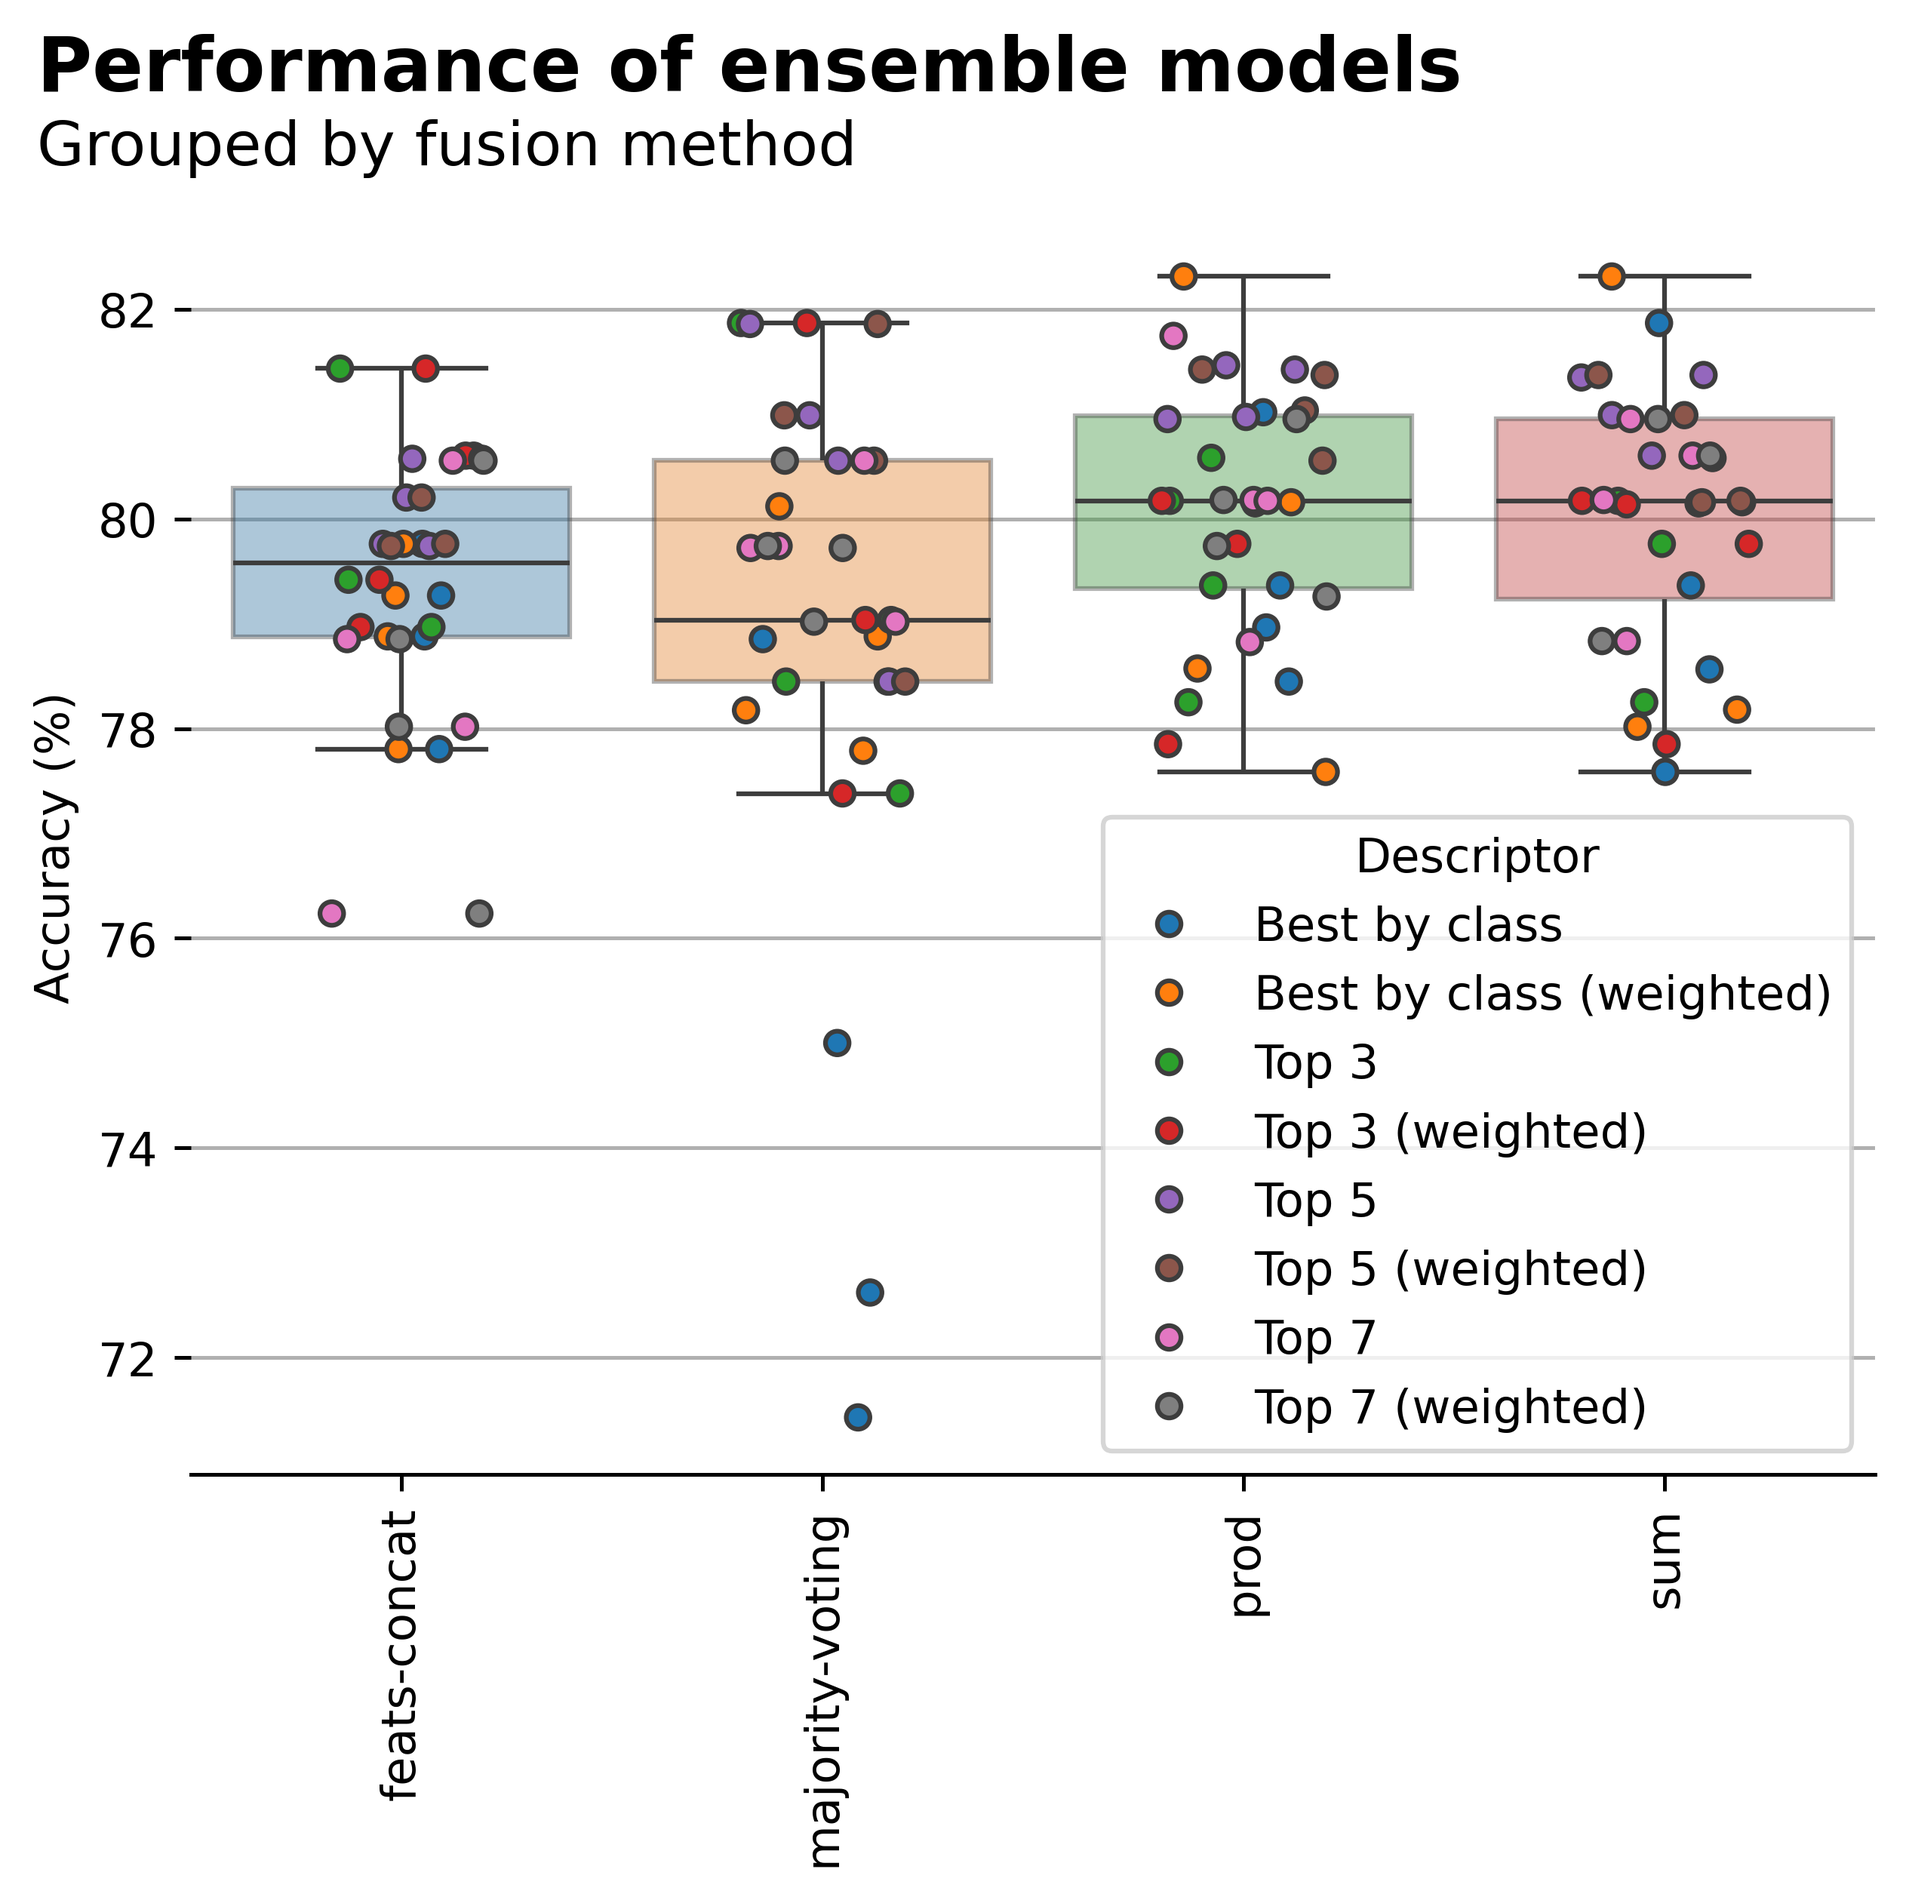
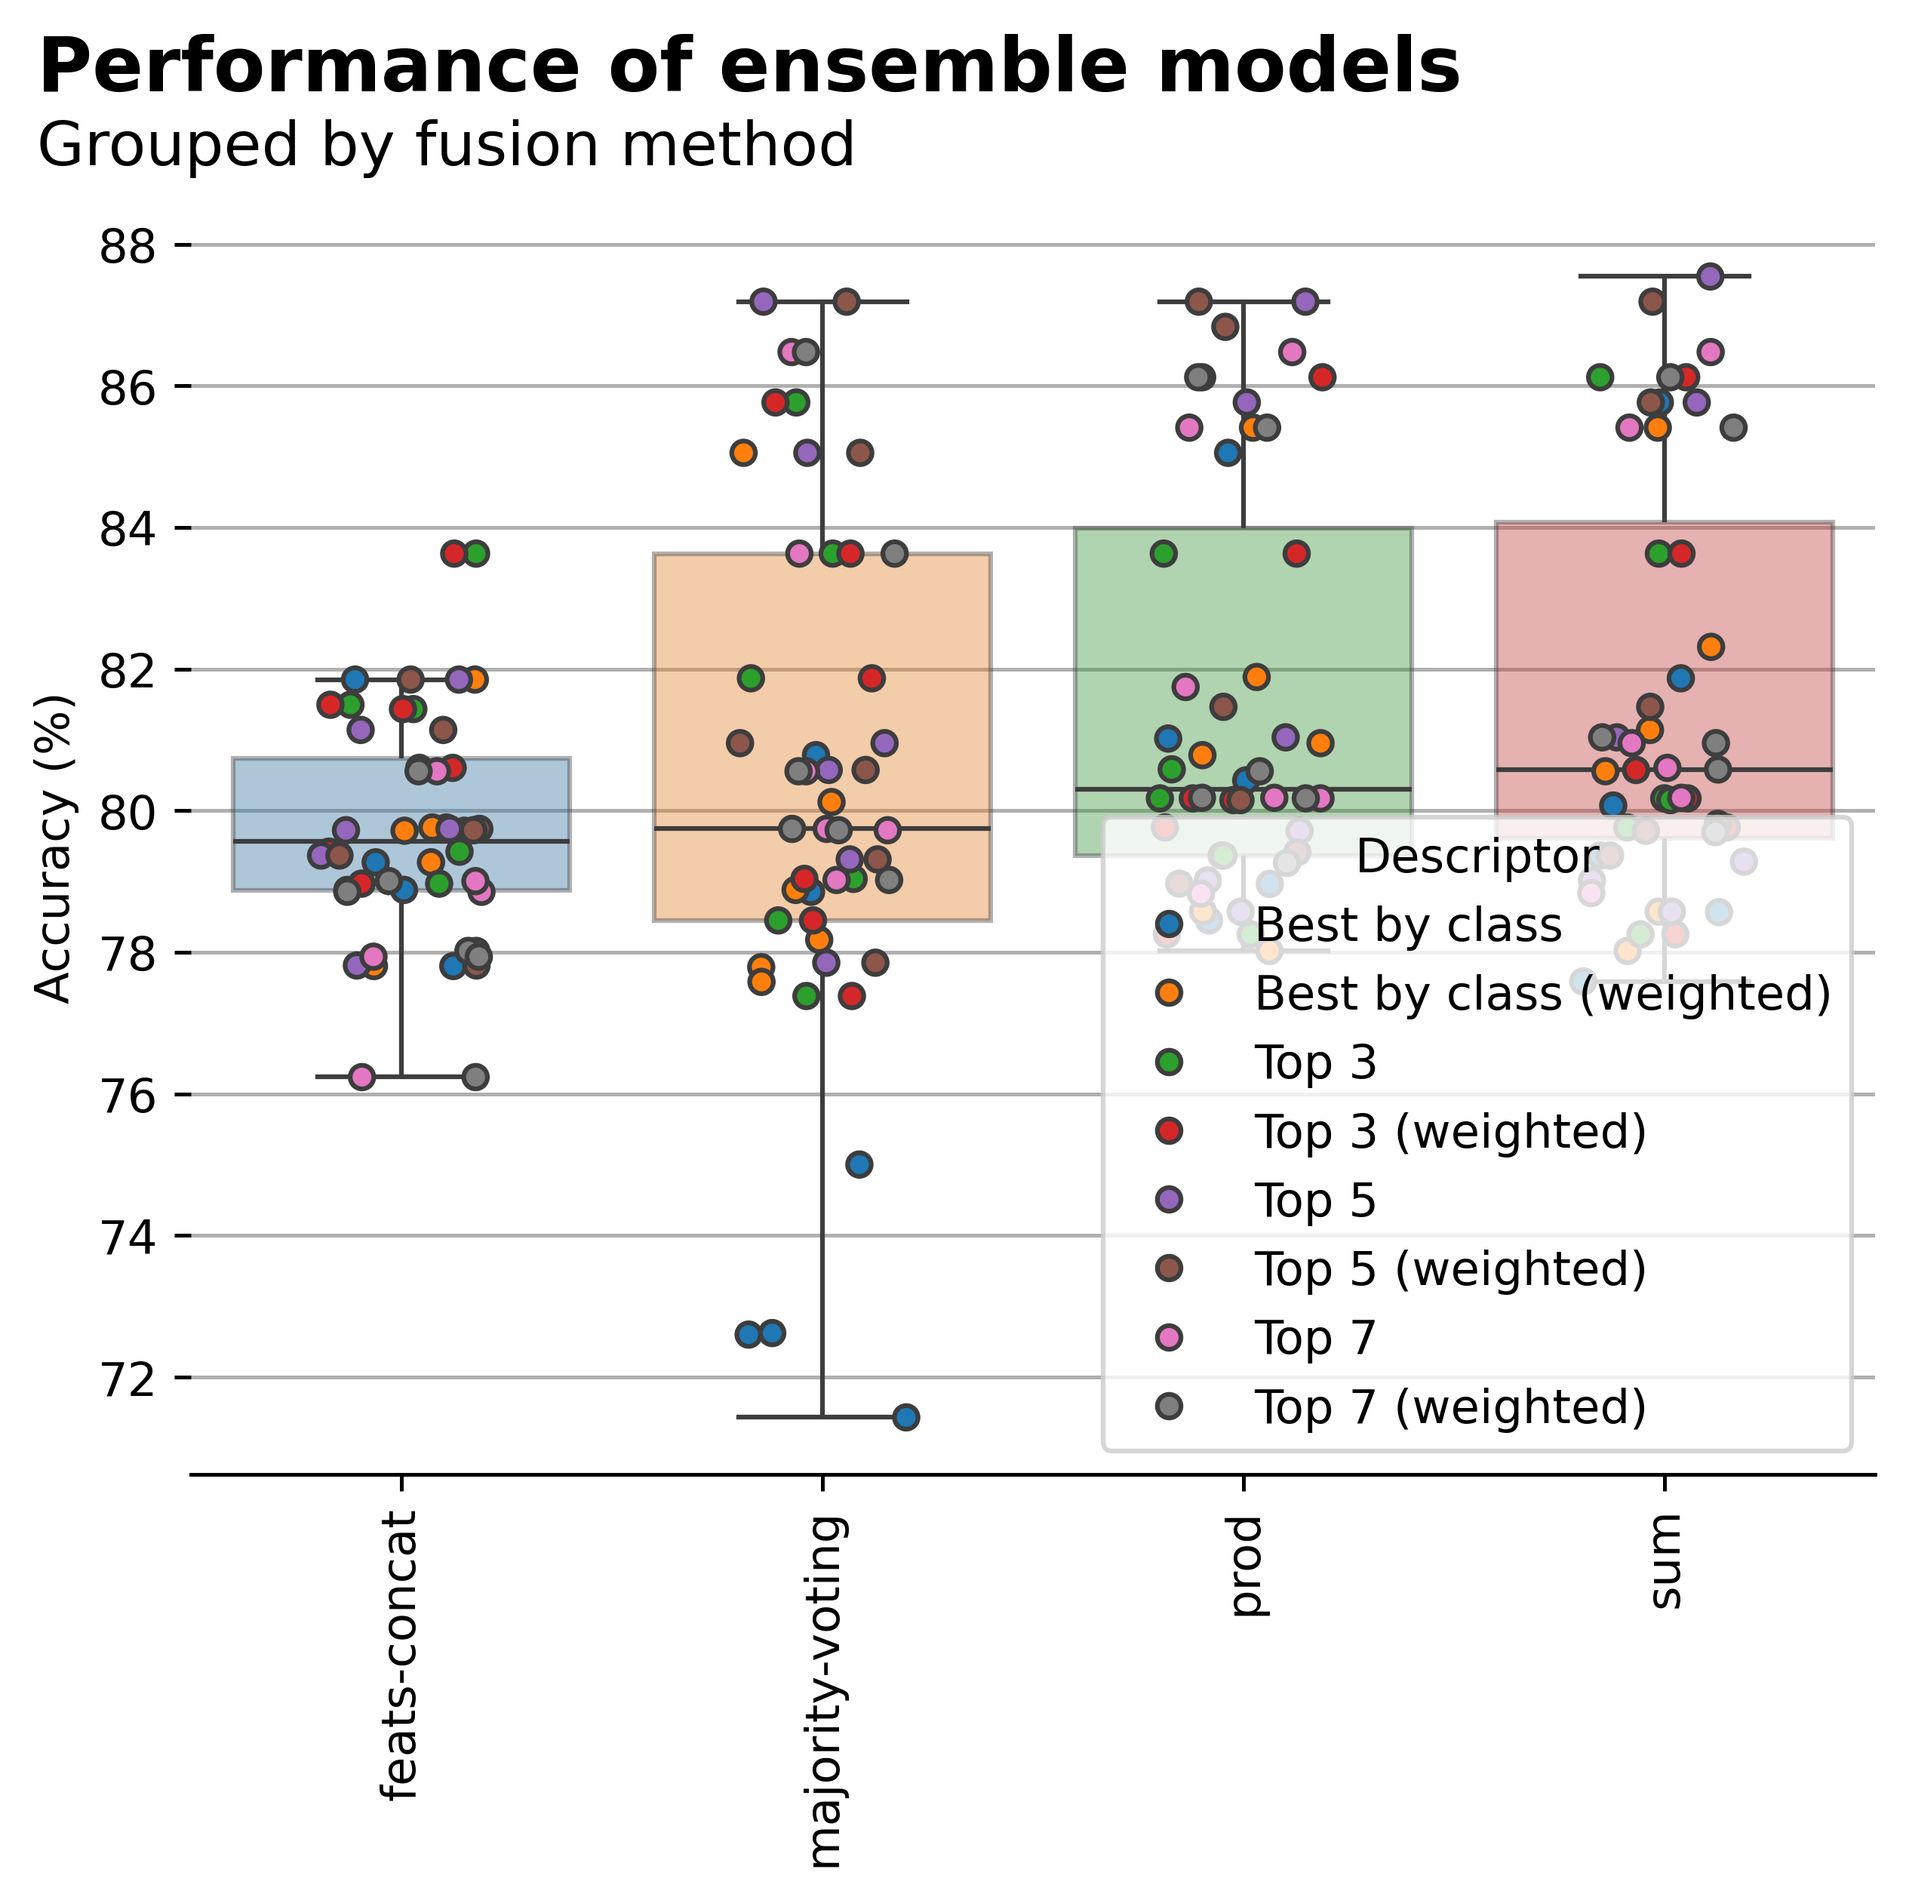
Updated charts and tables (BUS-UCLM)

diff --git a/output/LaTeX/single-vs-combined.tex b/output/LaTeX/single-vs-combined.tex
@@ -4,34 +4,50 @@ Descriptor & Fusion method & Train &Test & Acc. & Sens. &Spec.\\
 \midrule
 DenseNet121 & & BUID & BUID & 79.8 [74.08--84.43] & 75.2 & 86.5\\ 
 \midrule
-Best by class (weighted) & prod & BUID & BUID & 82.3 [76.41--86.35] & 84.6 & 79.7\\ 
 Best by class (weighted) & sum & BUID & BUID & 82.3 [76.41--86.35] & 84.6 & 79.7\\ 
 Best by class & sum & BUID & BUID & 81.9 [75.94--85.96] & 84.5 & 78.8\\ 
 Top 3 & majority-voting & BUID & BUID & 81.9 [75.94--85.96] & 80.5 & 83.4\\ 
+Top 3 (weighted) & majority-voting & BUID & BUID & 81.9 [75.94--85.96] & 80.5 & 83.4\\ 
+\midrule
+\midrule
+Swin_V2_s & & BUID & BUS-UCLM & 84.0 [78.29--87.86] & 78.7 & 86.6\\ 
+\midrule
+Top 5 & sum & BUID & BUS-UCLM & 87.5 [83.14--90.94] & 86.2 & 88.2\\ 
+Top 5 (weighted) & prod & BUID & BUS-UCLM & 87.2 [82.74--90.63] & 85.1 & 88.2\\ 
+Top 5 (weighted) & sum & BUID & BUS-UCLM & 87.2 [82.74--90.63] & 86.2 & 87.7\\ 
+Top 7 & prod & BUID & BUS-UCLM & 86.5 [81.95--90.02] & 74.5 & 92.5\\ 
 \midrule
 \midrule
 DenseNet121 & & BUID & BrEaST & 77.4 [71.32--82.11] & 58.2 & 89.6\\ 
 \midrule
 Top 7 & prod & BUID & BrEaST & 81.7 [76.49--86.05] & 76.5 & 85.1\\ 
-Top 5 & sum & BUID & BrEaST & 81.3 [76.06--85.70] & 79.6 & 82.5\\ 
-Top 7 (weighted) & prod & BUID & BrEaST & 81.0 [75.63--85.34] & 75.5 & 84.4\\ 
-Top 7 (weighted) & sum & BUID & BrEaST & 81.0 [75.63--85.34] & 74.5 & 85.1\\ 
+Best by class (weighted) & prod & BUID & BrEaST & 81.0 [75.63--85.34] & 70.4 & 87.7\\ 
+Top 5 & majority-voting & BUID & BrEaST & 81.0 [75.63--85.34] & 70.4 & 87.7\\ 
+Top 5 (weighted) & majority-voting & BUID & BrEaST & 81.0 [75.63--85.34] & 70.4 & 87.7\\ 
 \midrule
 \midrule
 ConvNeXt_base & & BrEaST & BUID & 78.9 [73.08--83.21] & 69.1 & 89.9\\ 
 \midrule
-Top 5 & prod & BrEaST & BUID & 81.5 [75.94--85.96] & 77.2 & 86.2\\ 
-Top 5 (weighted) & prod & BrEaST & BUID & 81.0 [75.48--85.58] & 75.6 & 87.2\\ 
-Top 3 & feats-concat & BrEaST & BUID & 80.6 [75.01--85.20] & 72.4 & 89.9\\ 
-Top 3 (weighted) & feats-concat & BrEaST & BUID & 80.6 [75.01--85.20] & 72.4 & 89.9\\ 
+Top 5 (weighted) & prod & BrEaST & BUID & 81.5 [75.94--85.96] & 71.5 & 92.7\\ 
+Top 5 (weighted) & sum & BrEaST & BUID & 81.5 [75.94--85.96] & 71.5 & 92.7\\ 
+Top 5 & prod & BrEaST & BUID & 81.0 [75.48--85.58] & 70.7 & 92.7\\ 
+Top 5 & sum & BrEaST & BUID & 81.0 [75.48--85.58] & 70.7 & 92.7\\ 
+\midrule
+\midrule
+DenseNet121 & & BrEaST & BUS-UCLM & 83.6 [78.29--87.86] & 67.0 & 92.0\\ 
+\midrule
+Top 5 & majority-voting & BrEaST & BUS-UCLM & 87.2 [82.74--90.63] & 74.5 & 93.6\\ 
+Top 5 (weighted) & majority-voting & BrEaST & BUS-UCLM & 87.2 [82.74--90.63] & 74.5 & 93.6\\ 
+Top 7 & majority-voting & BrEaST & BUS-UCLM & 86.5 [81.95--90.02] & 68.1 & 95.7\\ 
+Top 7 (weighted) & majority-voting & BrEaST & BUS-UCLM & 86.5 [81.95--90.02] & 68.1 & 95.7\\ 
 \midrule
 \midrule
 DenseNet121 & & BrEaST & BrEaST & 79.0 [73.50--83.56] & 67.4 & 86.4\\ 
 \midrule
-Top 5 & sum & BrEaST & BrEaST & 81.4 [76.06--85.70] & 71.4 & 87.7\\ 
-Top 5 (weighted) & prod & BrEaST & BrEaST & 81.4 [76.06--85.70] & 71.4 & 87.7\\ 
-Top 5 (weighted) & sum & BrEaST & BrEaST & 81.4 [76.06--85.70] & 71.4 & 87.7\\ 
 Top 7 (weighted) & sum & BrEaST & BrEaST & 80.6 [75.20--84.99] & 69.3 & 87.7\\ 
+Top 7 & prod & BrEaST & BrEaST & 80.2 [74.78--84.63] & 68.3 & 87.7\\ 
+Top 7 & sum & BrEaST & BrEaST & 80.2 [74.78--84.63] & 68.3 & 87.7\\ 
+Top 5 (weighted) & sum & BrEaST & BrEaST & 79.8 [74.35--84.28] & 68.4 & 87.0\\ 
 \midrule
 \midrule
 \bottomrule

diff --git a/output/LaTeX/cnn.tex b/output/LaTeX/cnn.tex
@@ -2,34 +2,46 @@
 \toprule
 Descriptor & Train &Test & Acc. & Sens. &Spec.\\ 
 \midrule
-\multirow{4}{*}{ConvNeXt_base} & BUID & BUID & 79.3 [73.62--84.05] & 76.8 & 82.6\\ 
+\multirow{6}{*}{ConvNeXt_base} & BUID & BUID & 79.3 [73.62--84.05] & 76.8 & 82.6\\ 
+ & BUID & BUS-UCLM & 83.6 [78.29--87.86] & 78.7 & 86.1\\ 
  & BUID & BrEaST & 77.0 [70.86--81.72] & 64.3 & 85.1\\ 
  & BrEaST & BUID & 78.9 [73.08--83.21] & 69.1 & 89.9\\ 
+ & BrEaST & BUS-UCLM & 80.4 [74.55--84.82] & 77.7 & 81.8\\ 
  & BrEaST & BrEaST & 77.5 [71.81--82.13] & 67.4 & 83.8\\ 
 \midrule
-\multirow{4}{*}{DenseNet121} & BUID & BUID & 79.8 [74.08--84.43] & 75.2 & 86.5\\ 
+\multirow{6}{*}{DenseNet121} & BUID & BUID & 79.8 [74.08--84.43] & 75.2 & 86.5\\ 
+ & BUID & BUS-UCLM & 79.0 [73.16--83.66] & 50.0 & 93.6\\ 
  & BUID & BrEaST & 77.4 [71.32--82.11] & 58.2 & 89.6\\ 
  & BrEaST & BUID & 78.0 [72.23--82.49] & 72.4 & 84.4\\ 
+ & BrEaST & BUS-UCLM & 83.6 [78.29--87.86] & 67.0 & 92.0\\ 
  & BrEaST & BrEaST & 79.0 [73.50--83.56] & 67.4 & 86.4\\ 
 \midrule
-\multirow{4}{*}{EfficientNet_V2_s} & BUID & BUID & 73.3 [67.22--78.57] & 70.4 & 76.9\\ 
+\multirow{6}{*}{EfficientNet_V2_s} & BUID & BUID & 73.3 [67.22--78.57] & 70.4 & 76.9\\ 
+ & BUID & BUS-UCLM & 77.2 [71.32--82.11] & 53.2 & 89.3\\ 
  & BUID & BrEaST & 77.4 [71.32--82.11] & 57.1 & 90.3\\ 
  & BrEaST & BUID & 71.1 [65.14--76.29] & 53.7 & 90.8\\ 
+ & BrEaST & BUS-UCLM & 78.6 [72.70--83.27] & 45.7 & 95.2\\ 
  & BrEaST & BrEaST & 74.2 [68.46--79.23] & 57.1 & 85.1\\ 
 \midrule
-\multirow{4}{*}{MobileNet_V2} & BUID & BUID & 73.3 [66.77--78.17] & 62.1 & 87.8\\ 
+\multirow{6}{*}{MobileNet_V2} & BUID & BUID & 73.3 [66.77--78.17] & 62.1 & 87.8\\ 
+ & BUID & BUS-UCLM & 72.6 [66.32--77.78] & 31.9 & 93.0\\ 
  & BUID & BrEaST & 75.0 [69.04--80.15] & 50.0 & 90.9\\ 
  & BrEaST & BUID & 62.9 [56.58--68.44] & 35.8 & 93.6\\ 
+ & BrEaST & BUS-UCLM & 76.2 [69.95--80.93] & 43.6 & 92.5\\ 
  & BrEaST & BrEaST & 72.3 [66.38--77.40] & 46.9 & 88.3\\ 
 \midrule
-\multirow{4}{*}{ResNet50} & BUID & BUID & 72.9 [66.77--78.17] & 62.7 & 85.5\\ 
+\multirow{6}{*}{ResNet50} & BUID & BUID & 72.9 [66.77--78.17] & 62.7 & 85.5\\ 
+ & BUID & BUS-UCLM & 70.1 [63.63--75.38] & 27.7 & 91.4\\ 
  & BUID & BrEaST & 77.0 [70.86--81.72] & 59.2 & 88.3\\ 
  & BrEaST & BUID & 66.8 [60.63--72.20] & 44.7 & 91.7\\ 
+ & BrEaST & BUS-UCLM & 74.4 [68.13--79.36] & 34.0 & 94.7\\ 
  & BrEaST & BrEaST & 73.9 [68.04--78.86] & 47.9 & 90.3\\ 
 \midrule
-\multirow{4}{*}{Swin_V2_s} & BUID & BUID & 75.9 [69.95--80.93] & 73.7 & 81.1\\ 
+\multirow{6}{*}{Swin_V2_s} & BUID & BUID & 75.9 [69.95--80.93] & 73.7 & 81.1\\ 
+ & BUID & BUS-UCLM & 84.0 [78.29--87.86] & 78.7 & 86.6\\ 
  & BUID & BrEaST & 77.4 [71.32--82.11] & 75.5 & 78.6\\ 
  & BrEaST & BUID & 75.4 [69.71--80.32] & 66.7 & 85.3\\ 
+ & BrEaST & BUS-UCLM & 78.3 [72.24--82.89] & 66.0 & 84.5\\ 
  & BrEaST & BrEaST & 78.2 [72.66--82.85] & 69.4 & 83.8\\ 
 \bottomrule
 \end{tabular}

diff --git a/output/LaTeX/texture.tex b/output/LaTeX/texture.tex
@@ -2,34 +2,46 @@
 \toprule
 Descriptor & Train &Test & Acc. & Sens. &Spec.\\ 
 \midrule
-\multirow{4}{*}{DCF} & BUID & BUID & 67.3 [60.96--72.96] & 68.7 & 68.7\\ 
+\multirow{6}{*}{DCF} & BUID & BUID & 67.3 [60.96--72.96] & 68.7 & 68.7\\ 
+ & BUID & BUS-UCLM & 54.1 [47.45--60.18] & 51.1 & 55.6\\ 
  & BUID & BrEaST & 56.0 [49.17--61.85] & 66.3 & 49.4\\ 
  & BrEaST & BUID & 62.5 [56.17--68.06] & 55.3 & 70.6\\ 
+ & BrEaST & BUS-UCLM & 66.2 [59.63--71.75] & 5.3 & 96.8\\ 
  & BrEaST & BrEaST & 69.4 [63.08--74.44] & 69.2 & 69.5\\ 
 \midrule
-\multirow{4}{*}{FDTA} & BUID & BUID & 72.0 [65.87--77.38] & 75.7 & 68.0\\ 
+\multirow{6}{*}{FDTA} & BUID & BUID & 72.0 [65.87--77.38] & 75.7 & 68.0\\ 
+ & BUID & BUS-UCLM & 73.0 [66.77--78.17] & 57.4 & 80.7\\ 
  & BUID & BrEaST & 70.6 [64.08--75.78] & 64.3 & 74.7\\ 
  & BrEaST & BUID & 68.1 [61.85--73.32] & 52.0 & 86.2\\ 
+ & BrEaST & BUS-UCLM & 74.7 [68.58--79.76] & 43.6 & 90.4\\ 
  & BrEaST & BrEaST & 75.0 [69.29--79.96] & 58.2 & 85.7\\ 
 \midrule
-\multirow{4}{*}{Gabor} & BUID & BUID & 64.7 [58.31--70.53] & 67.3 & 64.8\\ 
+\multirow{6}{*}{Gabor} & BUID & BUID & 64.7 [58.31--70.53] & 67.3 & 64.8\\ 
+ & BUID & BUS-UCLM & 65.5 [58.75--70.93] & 18.1 & 89.3\\ 
  & BUID & BrEaST & 61.5 [54.80--67.25] & 74.5 & 53.2\\ 
  & BrEaST & BUID & 65.9 [59.82--71.45] & 67.5 & 64.2\\ 
+ & BrEaST & BUS-UCLM & 68.3 [61.85--73.77] & 12.8 & 96.3\\ 
  & BrEaST & BrEaST & 74.2 [68.46--79.23] & 71.3 & 76.0\\ 
 \midrule
-\multirow{4}{*}{HOG} & BUID & BUID & 75.9 [69.95--80.93] & 77.8 & 72.4\\ 
+\multirow{6}{*}{HOG} & BUID & BUID & 75.9 [69.95--80.93] & 77.8 & 72.4\\ 
+ & BUID & BUS-UCLM & 73.0 [66.77--78.17] & 27.7 & 95.7\\ 
  & BUID & BrEaST & 71.4 [64.97--76.58] & 48.0 & 86.4\\ 
  & BrEaST & BUID & 73.3 [67.21--78.13] & 83.7 & 61.5\\ 
+ & BrEaST & BUS-UCLM & 77.6 [71.32--82.11] & 41.5 & 95.7\\ 
  & BrEaST & BrEaST & 75.8 [70.13--80.68] & 66.2 & 81.8\\ 
 \midrule
-\multirow{4}{*}{LBP-8-1-nri-uniform} & BUID & BUID & 62.5 [56.11--68.48] & 69.3 & 59.4\\ 
+\multirow{6}{*}{LBP-8-1-nri-uniform} & BUID & BUID & 62.5 [56.11--68.48] & 69.3 & 59.4\\ 
+ & BUID & BUS-UCLM & 69.0 [62.74--74.58] & 18.1 & 94.7\\ 
  & BUID & BrEaST & 67.9 [61.40--73.37] & 59.2 & 73.4\\ 
  & BrEaST & BUID & 62.5 [56.17--68.06] & 56.1 & 69.7\\ 
+ & BrEaST & BUS-UCLM & 68.0 [61.40--73.37] & 6.4 & 98.9\\ 
  & BrEaST & BrEaST & 68.2 [61.85--73.32] & 54.8 & 76.6\\ 
 \midrule
-\multirow{4}{*}{LBP-8-2-nri-uniform} & BUID & BUID & 67.3 [60.96--72.96] & 75.4 & 60.7\\ 
+\multirow{6}{*}{LBP-8-2-nri-uniform} & BUID & BUID & 67.3 [60.96--72.96] & 75.4 & 60.7\\ 
+ & BUID & BUS-UCLM & 68.3 [61.85--73.77] & 19.1 & 93.0\\ 
  & BUID & BrEaST & 73.0 [66.77--78.17] & 56.1 & 83.8\\ 
  & BrEaST & BUID & 69.4 [63.08--74.44] & 74.8 & 63.3\\ 
+ & BrEaST & BUS-UCLM & 68.3 [61.85--73.77] & 11.7 & 96.8\\ 
  & BrEaST & BrEaST & 75.4 [69.71--80.32] & 70.3 & 78.6\\ 
 \bottomrule
 \end{tabular}

diff --git a/output/LaTeX/ranking.tex b/output/LaTeX/ranking.tex
@@ -2,24 +2,24 @@
 \toprule
 Descriptor & Wins & Losses & Ties & Points & Rank\\ 
 \midrule
-DenseNet121 & 32 & 0 & 40 & 104 & 1.0\\ 
-ConvNeXt_base & 28 & 0 & 44 & 100 & 2.0\\ 
-Swin_V2_s & 25 & 0 & 47 & 97 & 3.0\\ 
-Morphological & 19 & 0 & 53 & 91 & 4.0\\ 
-HOG & 14 & 0 & 58 & 86 & 5.0\\ 
-EfficientNet_V2_s & 13 & 0 & 59 & 85 & 6.0\\ 
-ResNet50 & 12 & 2 & 58 & 82 & 7.0\\ 
-FDTA & 7 & 0 & 65 & 79 & 8.0\\ 
-LBP-8-2-nri-uniform & 8 & 2 & 62 & 78 & 9.0\\ 
-MobileNet_V2 & 7 & 3 & 62 & 76 & 10.0\\ 
-Gabor & 3 & 12 & 57 & 63 & 11.5\\ 
-LBP-8-1-nri-uniform & 0 & 9 & 63 & 63 & 11.5\\ 
-intensity-histogram & 0 & 14 & 58 & 58 & 13.0\\ 
-DCF & 0 & 15 & 57 & 57 & 14.0\\ 
-intensity-based & 0 & 19 & 53 & 53 & 15.0\\ 
-GLSZM & 0 & 21 & 51 & 51 & 16.0\\ 
-GLCM & 0 & 22 & 50 & 50 & 17.0\\ 
-NGTDM & 0 & 24 & 48 & 48 & 18.0\\ 
-GLRLM & 0 & 25 & 47 & 47 & 19.0\\ 
+DenseNet121 & 49 & 0 & 59 & 157 & 1.0\\ 
+ConvNeXt_base & 48 & 0 & 60 & 156 & 2.0\\ 
+Swin_V2_s & 42 & 0 & 66 & 150 & 3.0\\ 
+Morphological & 33 & 0 & 75 & 141 & 4.0\\ 
+EfficientNet_V2_s & 24 & 0 & 84 & 132 & 5.0\\ 
+HOG & 18 & 2 & 88 & 124 & 6.0\\ 
+ResNet50 & 15 & 4 & 89 & 119 & 7.0\\ 
+FDTA & 10 & 2 & 96 & 116 & 8.0\\ 
+MobileNet_V2 & 10 & 5 & 93 & 113 & 9.0\\ 
+LBP-8-2-nri-uniform & 10 & 7 & 91 & 111 & 10.0\\ 
+LBP-8-1-nri-uniform & 2 & 14 & 92 & 96 & 11.0\\ 
+intensity-histogram & 3 & 19 & 86 & 92 & 12.0\\ 
+Gabor & 3 & 20 & 85 & 91 & 13.0\\ 
+intensity-based & 1 & 25 & 82 & 84 & 14.0\\ 
+NGTDM & 1 & 30 & 77 & 79 & 15.0\\ 
+GLRLM & 0 & 31 & 77 & 77 & 16.0\\ 
+DCF & 0 & 32 & 76 & 76 & 17.0\\ 
+GLSZM & 0 & 33 & 75 & 75 & 18.0\\ 
+GLCM & 0 & 45 & 63 & 63 & 19.0\\ 
 \bottomrule
 \end{tabular}

diff --git a/output/LaTeX/morphological+intensity-based.tex b/output/LaTeX/morphological+intensity-based.tex
@@ -2,19 +2,25 @@
 \toprule
 Descriptor & Train &Test & Acc. & Sens. &Spec.\\ 
 \midrule
-\multirow{4}{*}{Morphological} & BUID & BUID & 78.0 [72.24--82.89] & 76.0 & 80.4\\ 
+\multirow{6}{*}{Morphological} & BUID & BUID & 78.0 [72.24--82.89] & 76.0 & 80.4\\ 
+ & BUID & BUS-UCLM & 79.7 [73.62--84.05] & 55.3 & 92.0\\ 
  & BUID & BrEaST & 77.0 [70.86--81.72] & 75.5 & 77.9\\ 
  & BrEaST & BUID & 71.6 [65.55--76.66] & 64.2 & 79.8\\ 
+ & BrEaST & BUS-UCLM & 80.8 [75.01--85.20] & 51.1 & 95.7\\ 
  & BrEaST & BrEaST & 73.1 [67.21--78.13] & 51.9 & 86.4\\ 
 \midrule
-\multirow{4}{*}{intensity-based} & BUID & BUID & 62.4 [55.67--68.07] & 74.7 & 48.8\\ 
+\multirow{6}{*}{intensity-based} & BUID & BUID & 62.4 [55.67--68.07] & 74.7 & 48.8\\ 
+ & BUID & BUS-UCLM & 61.6 [54.80--67.25] & 37.2 & 73.8\\ 
  & BUID & BrEaST & 57.1 [50.46--63.11] & 48.0 & 63.0\\ 
  & BrEaST & BUID & 60.3 [54.16--66.16] & 37.4 & 86.2\\ 
+ & BrEaST & BUS-UCLM & 72.2 [65.87--77.38] & 40.4 & 88.2\\ 
  & BrEaST & BrEaST & 69.9 [63.90--75.18] & 52.3 & 81.2\\ 
 \midrule
-\multirow{4}{*}{intensity-histogram} & BUID & BUID & 65.5 [59.19--71.34] & 73.1 & 56.7\\ 
+\multirow{6}{*}{intensity-histogram} & BUID & BUID & 65.5 [59.19--71.34] & 73.1 & 56.7\\ 
+ & BUID & BUS-UCLM & 65.1 [58.75--70.93] & 14.9 & 90.4\\ 
  & BUID & BrEaST & 65.9 [59.19--71.34] & 28.6 & 89.6\\ 
  & BrEaST & BUID & 54.7 [48.20--60.40] & 22.8 & 90.8\\ 
+ & BrEaST & BUS-UCLM & 78.6 [72.70--83.27] & 70.2 & 82.9\\ 
  & BrEaST & BrEaST & 66.7 [60.22--71.83] & 49.0 & 78.0\\ 
 \bottomrule
 \end{tabular}
